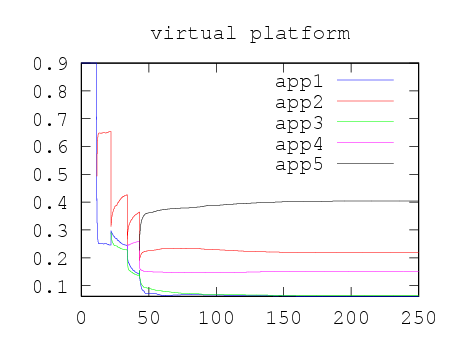
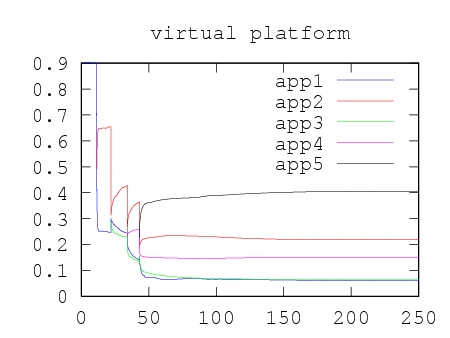
fix yaxis fig:test6

diff --git a/report/thesis.tex b/report/thesis.tex
@@ -820,6 +820,7 @@ typedef union epoll_data {
 
 
 
+
 <<<<<<< Updated upstream
 
 =======
@@ -2554,9 +2555,9 @@ computation, together with the quality of the offered service.
 
 Overall the plots of the virtual platforms and the service level looks good but the main problem are
 the extremely noisy performances. They do however have zero mean which is why it is deemed as a good enough result.
-There are a couple of possible explanations for the noisy performance ; one being the extra CPU that the gtrm slice receives when the system.slice has
+There are a couple of possible explanations for the noisy performance; one being the extra CPU that the gtrm slice receives when the system slice has
 spare resources to lend. This introduces a disturbance driving the performance up. However when loading the system.slice with a cpu hog no major changes in performance were shown.
-computation, together with the quality of the offered service.
+
 
 \section{Conclusion}
 

diff --git a/report/tools/plot/printscript.m b/report/tools/plot/printscript.m
@@ -19,7 +19,7 @@ set(h,'PaperPosition',[0,0,W,H])
 print -dpng vp.png	
 
 
-
+%{
 h=sl_handle
 figure(sl_handle)
 xlim([0,XMAX])
@@ -31,7 +31,7 @@ set(h,'PaperSize',[H,W])
 set(h,'PaperPosition',[0,0,W,H])
 
 print -dpng sl.png
-
+%}
 
 h=f_handle
 figure(f_handle)
